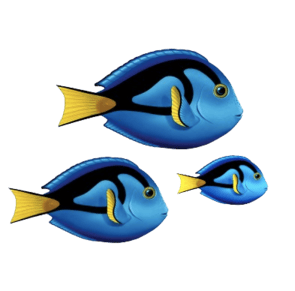
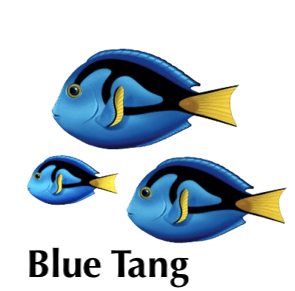
add names to assets

diff --git a/README.md b/README.md
@@ -9,3 +9,34 @@ Welcome to Belize's project: [PROJECT NAME].
 Hosted independently [here]().
 
 A full write up, with further information about the project, can be found on [What's My Country Code - Belize]().
+
+
+ANIMALS
+- manatee
+- turtle
+- barracuda
+- starfish
+- seahorse
+- stingrays
+- manta rays
+- eagle rays
+- reef shark
+- other shark
+- fiiiiiish x 3 (rainbow, dorys, silver, big gormless)
+- eel
+- coral generic
+
+TO DO
+- add xmas hat and present
+- add 'go slow' sign at start
+- slow animation time for desktop
+- make gradient better
+- 'start again' button?
+- leave room for sky + waves??
+
+- write readme
+- host
+- add gtag
+- final checks
+- wmcc write up
+- socials post
